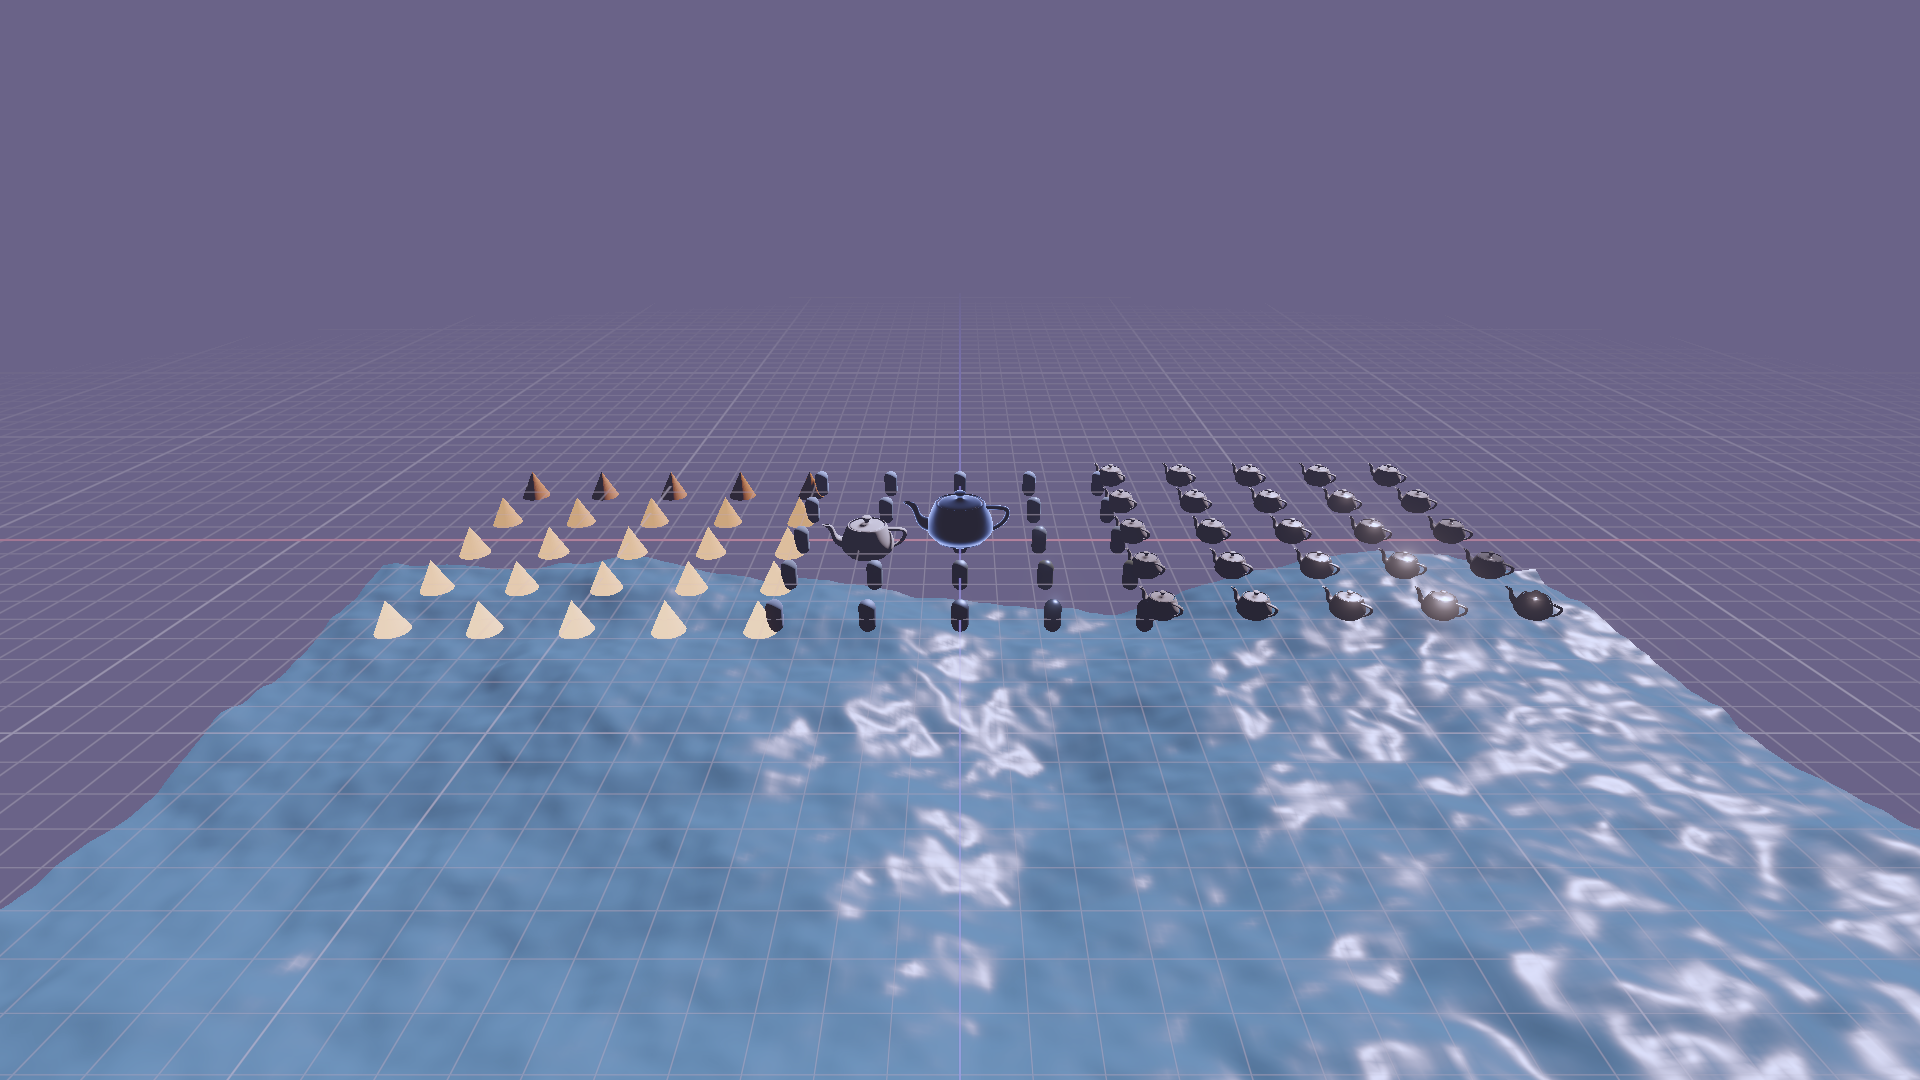
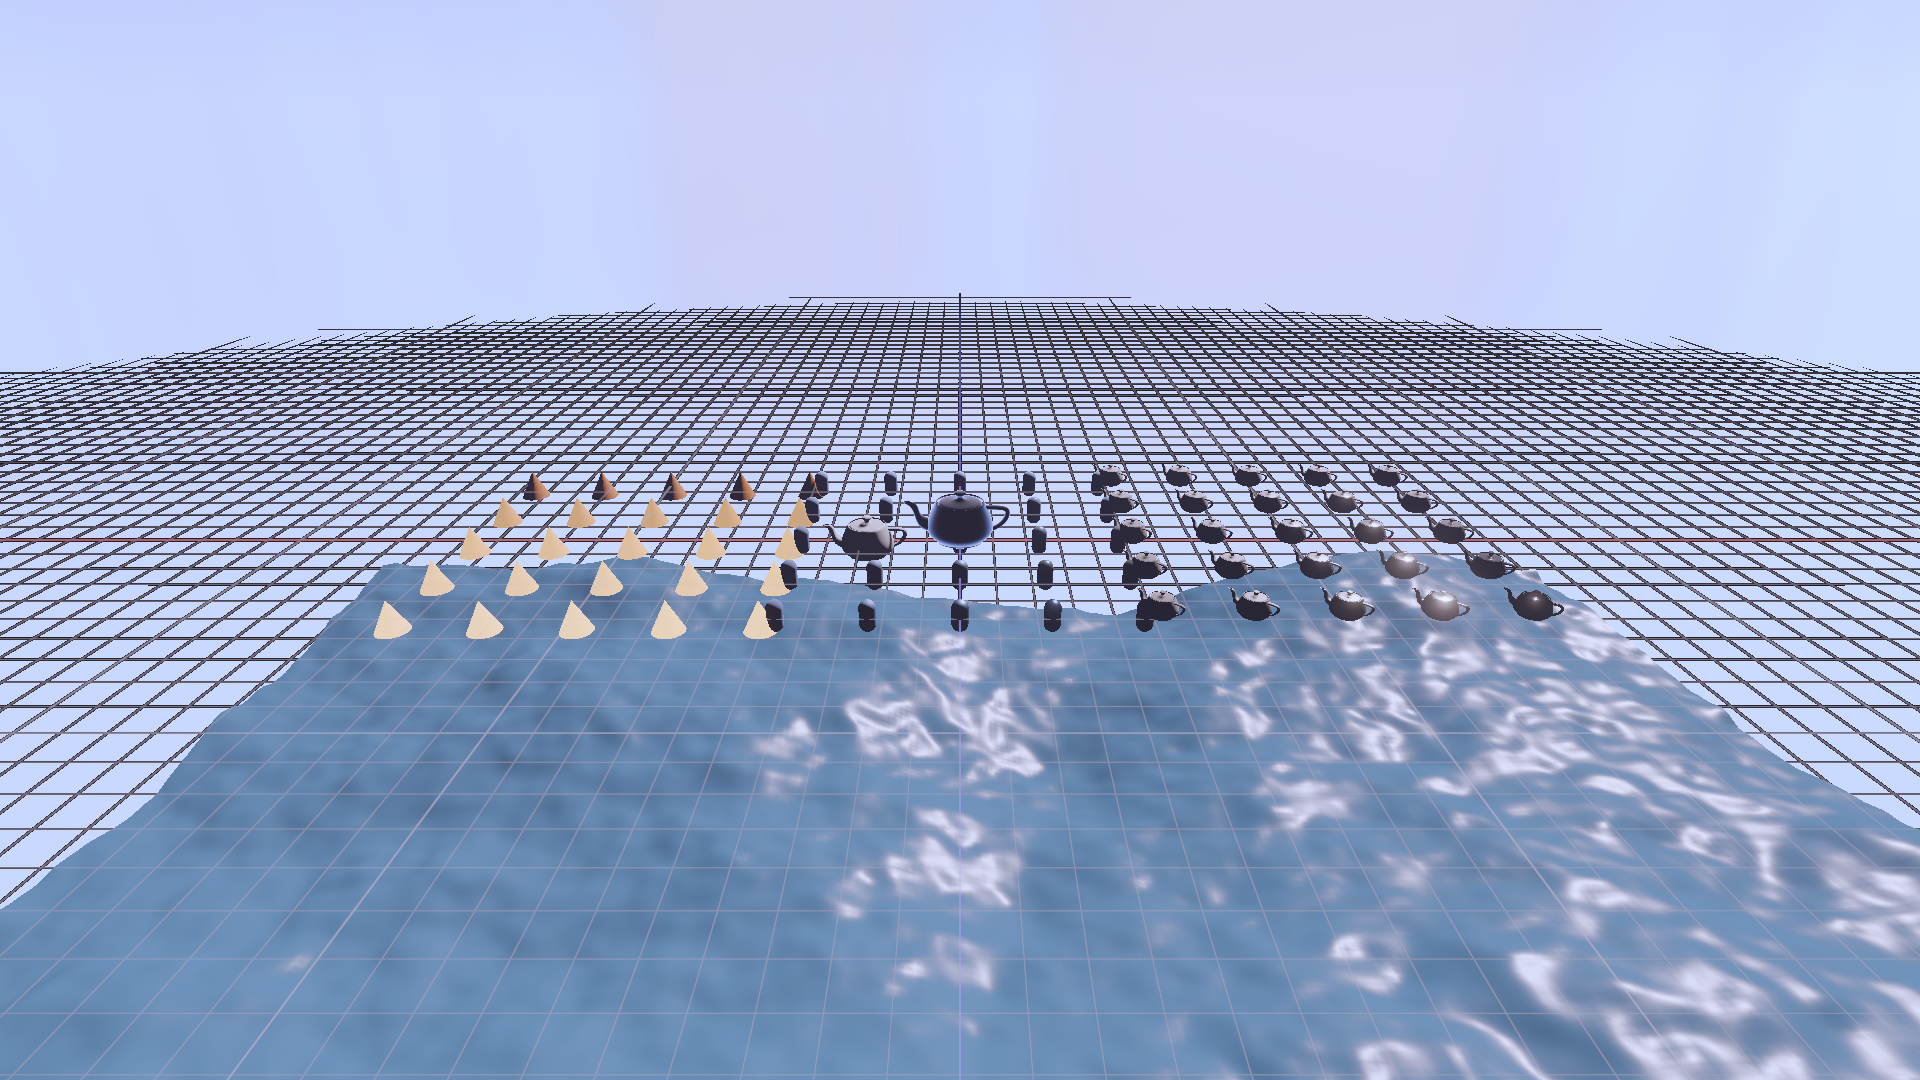
feat: implement Rayleigh sky with procedural clouds and integrate into shaders

diff --git a/src/application_render.cpp b/src/application_render.cpp
@@ -156,6 +156,7 @@ void Application::render()
     frameMapped->fogStartY = fogStartY;
     frameMapped->fogDensity = fogDensity;
     frameMapped->fogColor = vec4(fogColor, 0.0f);
+    frameMapped->time = lightTime;
 
     // Main pass PerPassCB (index 0)
     PerPassCB* mainPass = getPassMapped(0);
@@ -416,7 +417,8 @@ void Application::render()
         [&](ID3D12GraphicsCommandList2* cmd, rg::RenderGraphBuilder& builder) {
             PROFILE_ZONE_NAMED("Scene Pass");
             PROFILE_GPU_ZONE(g_tracyD3d12Ctx, cmd, "GPU: Scene");
-            FLOAT clearColor[] = { bgColor.x, bgColor.y, bgColor.z, 1.0f };
+            // Clear to black — Rayleigh sky fills background in composite pass
+            FLOAT clearColor[] = { 0, 0, 0, 1 };
             auto hdrRtv = bloom.bloomRtvHeap->GetCPUDescriptorHandleForHeapStart();
             cmd->ClearRenderTargetView(hdrRtv, clearColor, 0, nullptr);
             auto dsv = this->dsvHeap->GetCPUDescriptorHandleForHeapStart();
@@ -638,6 +640,7 @@ void Application::render()
             skyParams.aspectRatio =
                 static_cast<float>(clientWidth) / static_cast<float>(clientHeight);
             skyParams.tanHalfFov = std::tan(cam.fov * 0.5f);
+            skyParams.time = lightTime;
 
             CD3DX12_CPU_DESCRIPTOR_HANDLE backBufRtv(
                 rtvHeap->GetCPUDescriptorHandleForHeapStart(), static_cast<INT>(curBackBufIdx),

diff --git a/src/shader_hotreload.cpp b/src/shader_hotreload.cpp
@@ -121,8 +121,8 @@ bool ShaderCompiler::compile(Watch& w)
     GetTempFileNameA(tempDir, "dxc", 0, tempFile);
 
     // Build command line
-    std::string cmd = "\"" + dxcPath_ + "\" -T " + w.target + " -E main -Fo \"" + tempFile +
-                      "\" \"" + w.path.string() + "\"";
+    std::string cmd = "\"" + dxcPath_ + "\" -T " + w.target + " -E main -I \"" + shaderDir_ +
+                      "\" -Fo \"" + tempFile + "\" \"" + w.path.string() + "\"";
 
     // Create pipe for error output
     SECURITY_ATTRIBUTES sa = { sizeof(sa), nullptr, TRUE };

diff --git a/src/bloom.cpp b/src/bloom.cpp
@@ -389,6 +389,7 @@ void BloomRenderer::render(
     compositeCB[18] = sky.sunDir.z;
     compositeCB[19] = sky.aspectRatio;
     compositeCB[20] = sky.tanHalfFov;
+    compositeCB[21] = sky.time;
     cmdList->SetGraphicsRoot32BitConstants(2, 24, compositeCB, 0);
     cmdList->DrawInstanced(3, 1, 0, 0);
 

diff --git a/AGENTS.md b/AGENTS.md
@@ -230,7 +230,7 @@ update()  →  render()
 
 **Tonemappers** (selectable in UI): ACES Filmic, AgX, AgX Punchy, Gran Turismo / Uchimura, PBR Neutral.
 
-**Rayleigh sky**: Computed in `bloom_composite_ps.hlsl` during the composite pass. When a pixel has near-zero scene luminance (background), reconstructs view direction from UV + camera orientation vectors (passed as root constants), then computes Rayleigh scattering with sun glow and horizon warmth. Camera forward/right/up and sun direction are computed in `application.cpp` and passed via `BloomRenderer::SkyParams`. Also duplicated in `pixel_shader.hlsl` for cubemap reflection fallback — when a reflective material's cubemap sample is near-black (no geometry), the reflection vector is used to compute sky color inline.
+**Rayleigh sky + clouds**: Shared implementation in `src/sky.hlsli` (included by `bloom_composite_ps.hlsl` and `pixel_shader.hlsl`). `rayleighSky(viewDir, sunDir, time)` computes Rayleigh scattering + procedural FBM clouds (hash-based value noise, 5 octaves, spherical projection, time-animated drift). HDR RT is cleared to black so the composite pass detects background via `sceneLum < 0.001`. `SkyParams` includes `time` (from `lightTime`); `PerFrameCB` also has `time` for reflection sky. DXC includes are enabled via `-I src/` in both CMake and shader hot reload. Cubemap reflection fallback in `pixel_shader.hlsl` uses the same sky function when envMap sample is near-black.
 
 **Infinite grid**: Rendered via `grid_vs.hlsl` + `grid_ps.hlsl` with its own root signature (`gridRootSig`) and PSO (`gridPSO`). Vertex shader generates a fullscreen triangle, unprojects near/far planes to world space via `InvViewProj`. Pixel shader ray-intersects the Y=0 plane, draws unit lines (1m) and major lines (10m) with `fwidth`-based anti-aliasing. X axis highlighted blue, Z axis red. Alpha-blended with distance fade (80m). Depth-tested against scene geometry (read-only depth). Uses perPass CB slot 10 for `GridCB` (ViewProj, InvViewProj, CameraPos). Toggled via `showGrid` (Display menu, saved in scene files).
 

diff --git a/README.md b/README.md
@@ -1,9 +1,10 @@
 # DirectX 12 Toy Engine
 
-![banner](banner.png)
+ ![banner](banner.png)
 
 Engine prototype for DX12 experimentation!
 
+ ![](screenshot.png)
 
 ## Credit
 
